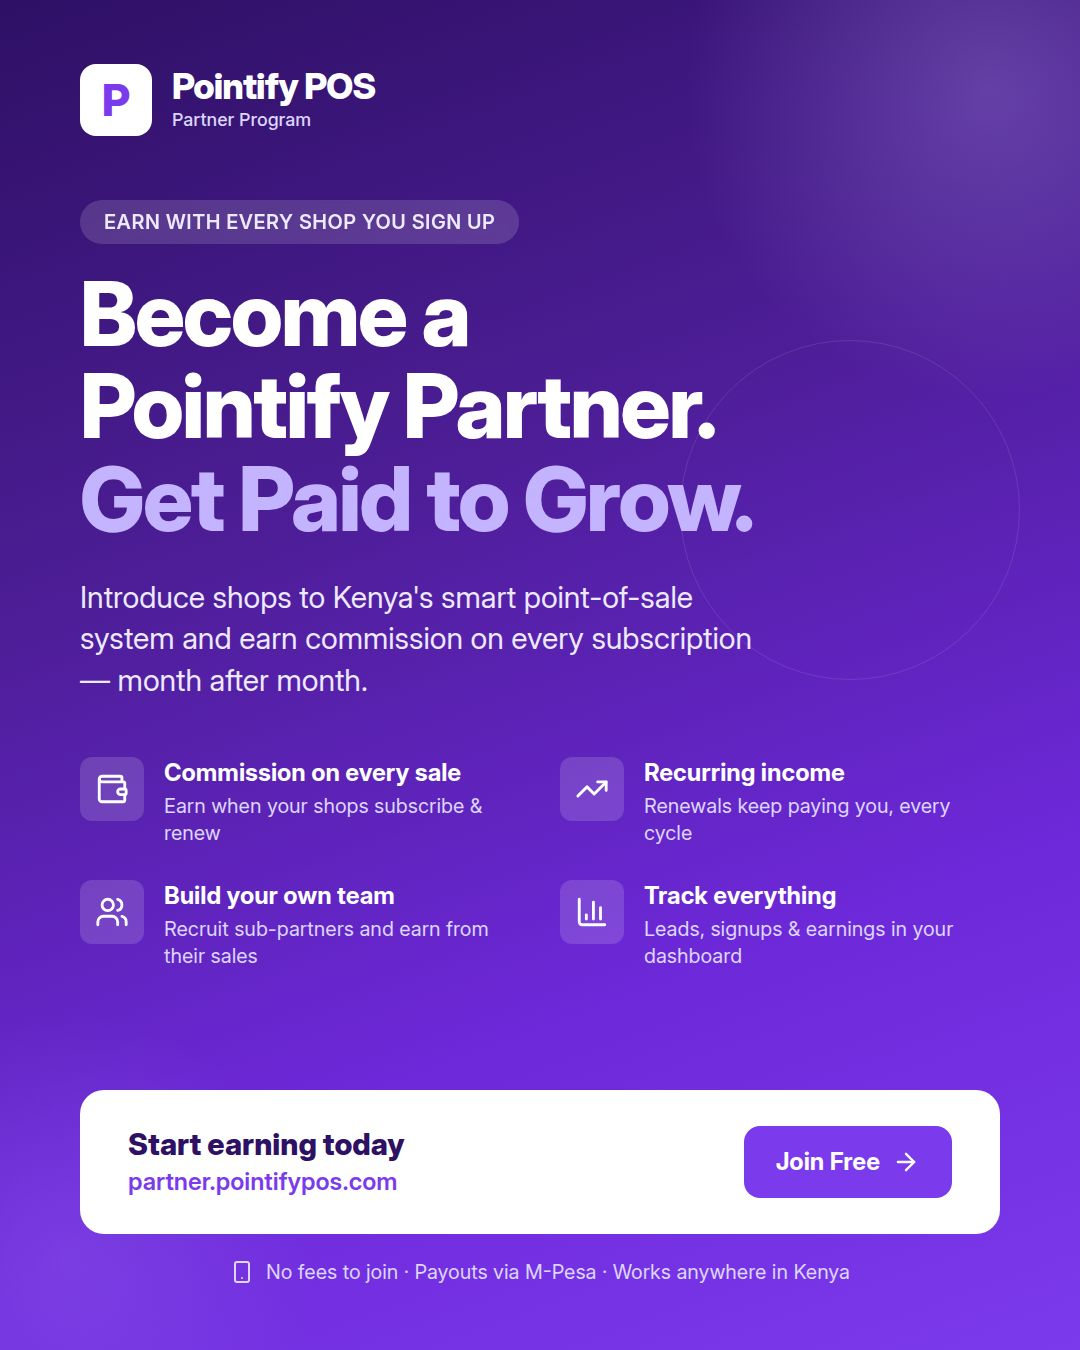
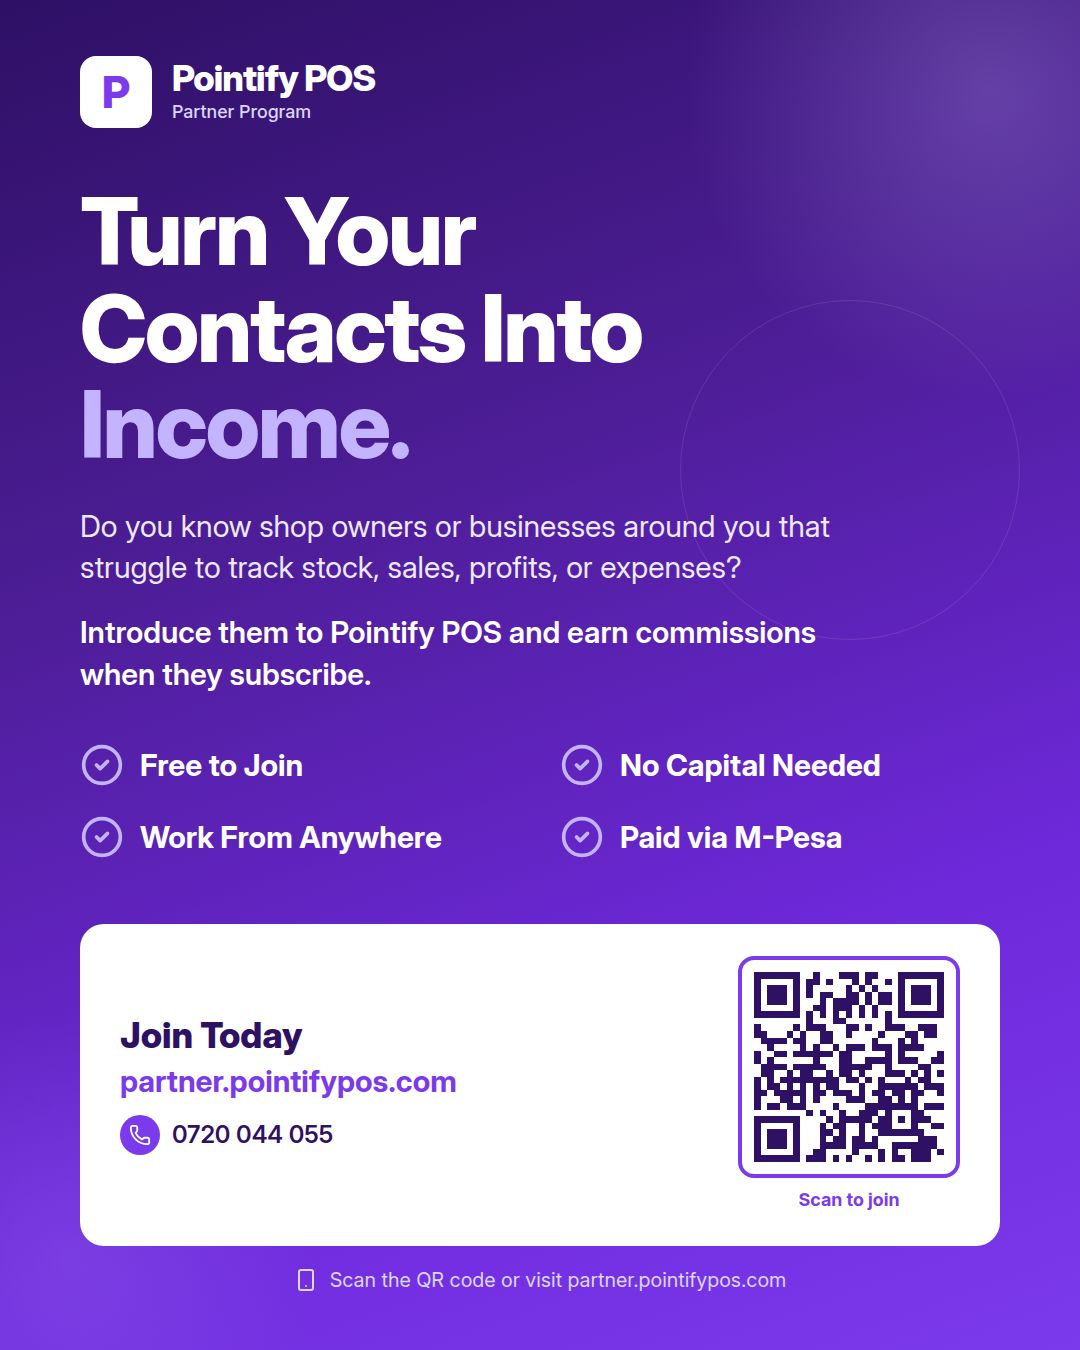
Update partner recruitment poster with new messaging and QR code
Integrates QR code generation and updates the Poster component with new copy, phone number, and styling. Installs `qrcode` and `@types/qrcode` packages.

Replit-Commit-Author: Agent
Replit-Commit-Session-Id: 7881019f-e82f-4f27-b2d1-29d35c0b27c1
Replit-Commit-Checkpoint-Type: full_checkpoint
Replit-Commit-Event-Id: 76971b07-e980-4d5a-a676-9bbd2b0bf1ea
Replit-Commit-Screenshot-Url: https://storage.googleapis.com/screenshot-production-us-central1/cb193285-7bf4-449f-9b0a-a237699dcd95/7881019f-e82f-4f27-b2d1-29d35c0b27c1/Aan0ZxC
Replit-Helium-Checkpoint-Created: true

Changed region(s): [[0.0611, 0.5289, 0.9472, 0.9644], [0.0611, 0.0311, 0.7639, 0.5289]]

diff --git a/artifacts/mockup-sandbox/src/components/mockups/partner-poster/Poster.tsx b/artifacts/mockup-sandbox/src/components/mockups/partner-poster/Poster.tsx
@@ -1,11 +1,5 @@
-import {
-  Smartphone,
-  TrendingUp,
-  Users,
-  Wallet,
-  BarChart3,
-  ArrowRight,
-} from "lucide-react";
+import { CheckCircle2, Phone, Smartphone } from "lucide-react";
+import qrUrl from "./qr.svg";
 
 export function Poster() {
   return (
@@ -46,11 +40,11 @@ export function Poster() {
         />
         <div
           className="absolute rounded-full border border-white/10"
-          style={{ width: 340, height: 340, right: 60, top: 340 }}
+          style={{ width: 340, height: 340, right: 60, top: 300 }}
         />
 
         {/* Content */}
-        <div className="relative flex h-full flex-col px-20 py-16">
+        <div className="relative flex h-full flex-col px-20 py-14">
           {/* Brand */}
           <div className="flex items-center gap-5">
             <div
@@ -70,65 +64,41 @@ export function Poster() {
           </div>
 
           {/* Headline */}
-          <div className="mt-16">
-            <div
-              className="inline-block rounded-full bg-white/15 px-6 py-2 text-xl font-semibold tracking-wide text-violet-100"
-              style={{ backdropFilter: "blur(4px)" }}
-            >
-              EARN WITH EVERY SHOP YOU SIGN UP
-            </div>
+          <div className="mt-14">
             <h1
-              className="mt-6 font-extrabold leading-[1.05] tracking-tight"
-              style={{ fontSize: 88 }}
+              className="font-extrabold leading-[1.05] tracking-tight"
+              style={{ fontSize: 92 }}
             >
-              Become a<br />
-              Pointify Partner.
+              Turn Your
               <br />
-              <span className="text-violet-300">Get Paid to Grow.</span>
+              Contacts Into
+              <br />
+              <span className="text-violet-300">Income.</span>
             </h1>
-            <p className="mt-8 max-w-2xl text-3xl leading-snug text-violet-100">
-              Introduce shops to Kenya&apos;s smart point-of-sale system and
-              earn commission on every subscription — month after month.
+            <p className="mt-8 max-w-3xl text-3xl leading-snug text-violet-100">
+              Do you know shop owners or businesses around you that struggle to
+              track stock, sales, profits, or expenses?
+            </p>
+            <p className="mt-6 max-w-3xl text-3xl font-semibold leading-snug">
+              Introduce them to Pointify POS and earn commissions when they
+              subscribe.
             </p>
           </div>
 
           {/* Benefits */}
-          <div className="mt-14 grid grid-cols-2 gap-x-10 gap-y-8">
+          <div className="mt-12 grid grid-cols-2 gap-x-10 gap-y-7">
             {[
-              {
-                icon: Wallet,
-                title: "Commission on every sale",
-                text: "Earn when your shops subscribe & renew",
-              },
-              {
-                icon: TrendingUp,
-                title: "Recurring income",
-                text: "Renewals keep paying you, every cycle",
-              },
-              {
-                icon: Users,
-                title: "Build your own team",
-                text: "Recruit sub-partners and earn from their sales",
-              },
-              {
-                icon: BarChart3,
-                title: "Track everything",
-                text: "Leads, signups & earnings in your dashboard",
-              },
-            ].map(({ icon: Icon, title, text }) => (
-              <div key={title} className="flex items-start gap-5">
-                <div
-                  className="flex shrink-0 items-center justify-center rounded-xl bg-white/15"
-                  style={{ width: 64, height: 64 }}
-                >
-                  <Icon style={{ width: 34, height: 34 }} />
-                </div>
-                <div>
-                  <div className="text-2xl font-bold">{title}</div>
-                  <div className="mt-1 text-xl leading-snug text-violet-200">
-                    {text}
-                  </div>
-                </div>
+              "Free to Join",
+              "No Capital Needed",
+              "Work From Anywhere",
+              "Paid via M-Pesa",
+            ].map((title) => (
+              <div key={title} className="flex items-center gap-4">
+                <CheckCircle2
+                  className="shrink-0 text-violet-300"
+                  style={{ width: 44, height: 44 }}
+                />
+                <div className="text-3xl font-bold">{title}</div>
               </div>
             ))}
           </div>
@@ -136,27 +106,49 @@ export function Poster() {
           {/* CTA */}
           <div className="mt-auto">
             <div
-              className="flex items-center justify-between rounded-3xl bg-white px-12 py-9"
+              className="flex items-center justify-between gap-8 rounded-3xl bg-white px-10 py-8"
               style={{ color: "#2e1065" }}
             >
               <div>
-                <div className="text-3xl font-extrabold">
-                  Start earning today
-                </div>
-                <div className="mt-1 text-2xl font-semibold" style={{ color: "#7c3aed" }}>
+                <div className="text-4xl font-extrabold">Join Today</div>
+                <div
+                  className="mt-2 text-3xl font-bold"
+                  style={{ color: "#7c3aed" }}
+                >
                   partner.pointifypos.com
                 </div>
+                <div className="mt-4 flex items-center gap-3 text-2xl font-semibold">
+                  <span
+                    className="flex items-center justify-center rounded-full"
+                    style={{ width: 40, height: 40, background: "#7c3aed" }}
+                  >
+                    <Phone
+                      className="text-white"
+                      style={{ width: 22, height: 22 }}
+                    />
+                  </span>
+                  0720 044 055
+                </div>
               </div>
-              <div
-                className="flex items-center gap-3 rounded-2xl px-8 py-5 text-2xl font-bold text-white"
-                style={{ background: "#7c3aed" }}
-              >
-                Join Free <ArrowRight style={{ width: 28, height: 28 }} />
+              <div className="flex flex-col items-center gap-2">
+                <div
+                  className="rounded-2xl border-4 bg-white p-3"
+                  style={{ borderColor: "#7c3aed" }}
+                >
+                  <img
+                    src={qrUrl}
+                    alt="QR code for partner.pointifypos.com"
+                    style={{ width: 190, height: 190 }}
+                  />
+                </div>
+                <div className="text-lg font-bold" style={{ color: "#7c3aed" }}>
+                  Scan to join
+                </div>
               </div>
             </div>
-            <div className="mt-6 flex items-center justify-center gap-3 text-xl text-violet-200">
+            <div className="mt-5 flex items-center justify-center gap-3 text-xl text-violet-200">
               <Smartphone style={{ width: 24, height: 24 }} />
-              No fees to join · Payouts via M-Pesa · Works anywhere in Kenya
+              Scan the QR code or visit partner.pointifypos.com
             </div>
           </div>
         </div>
